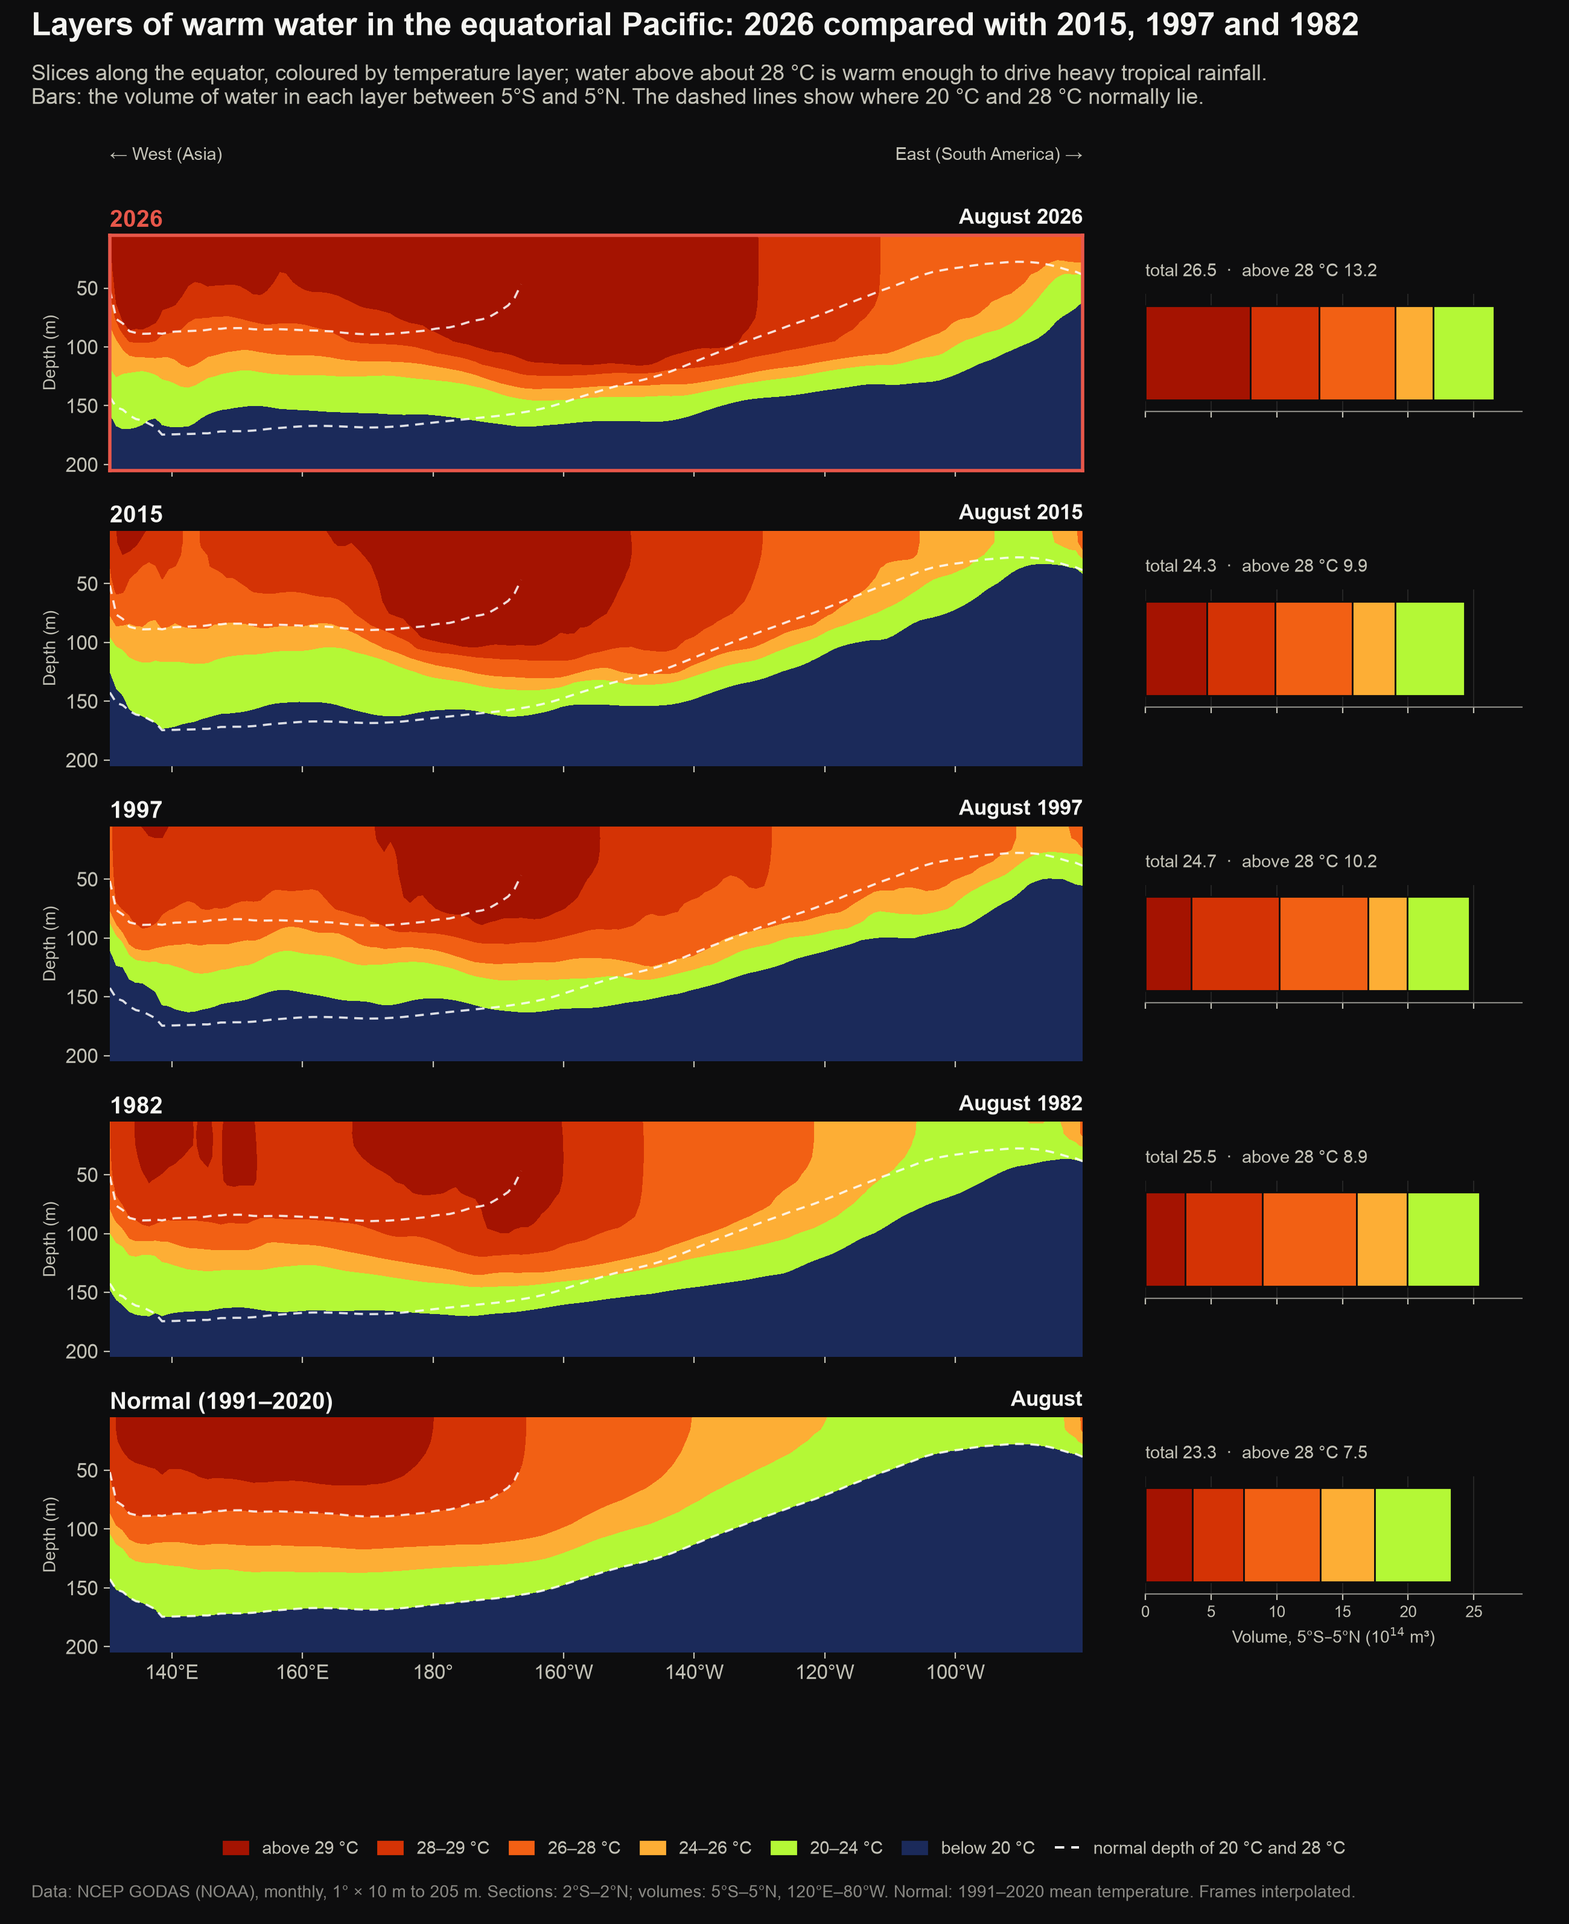
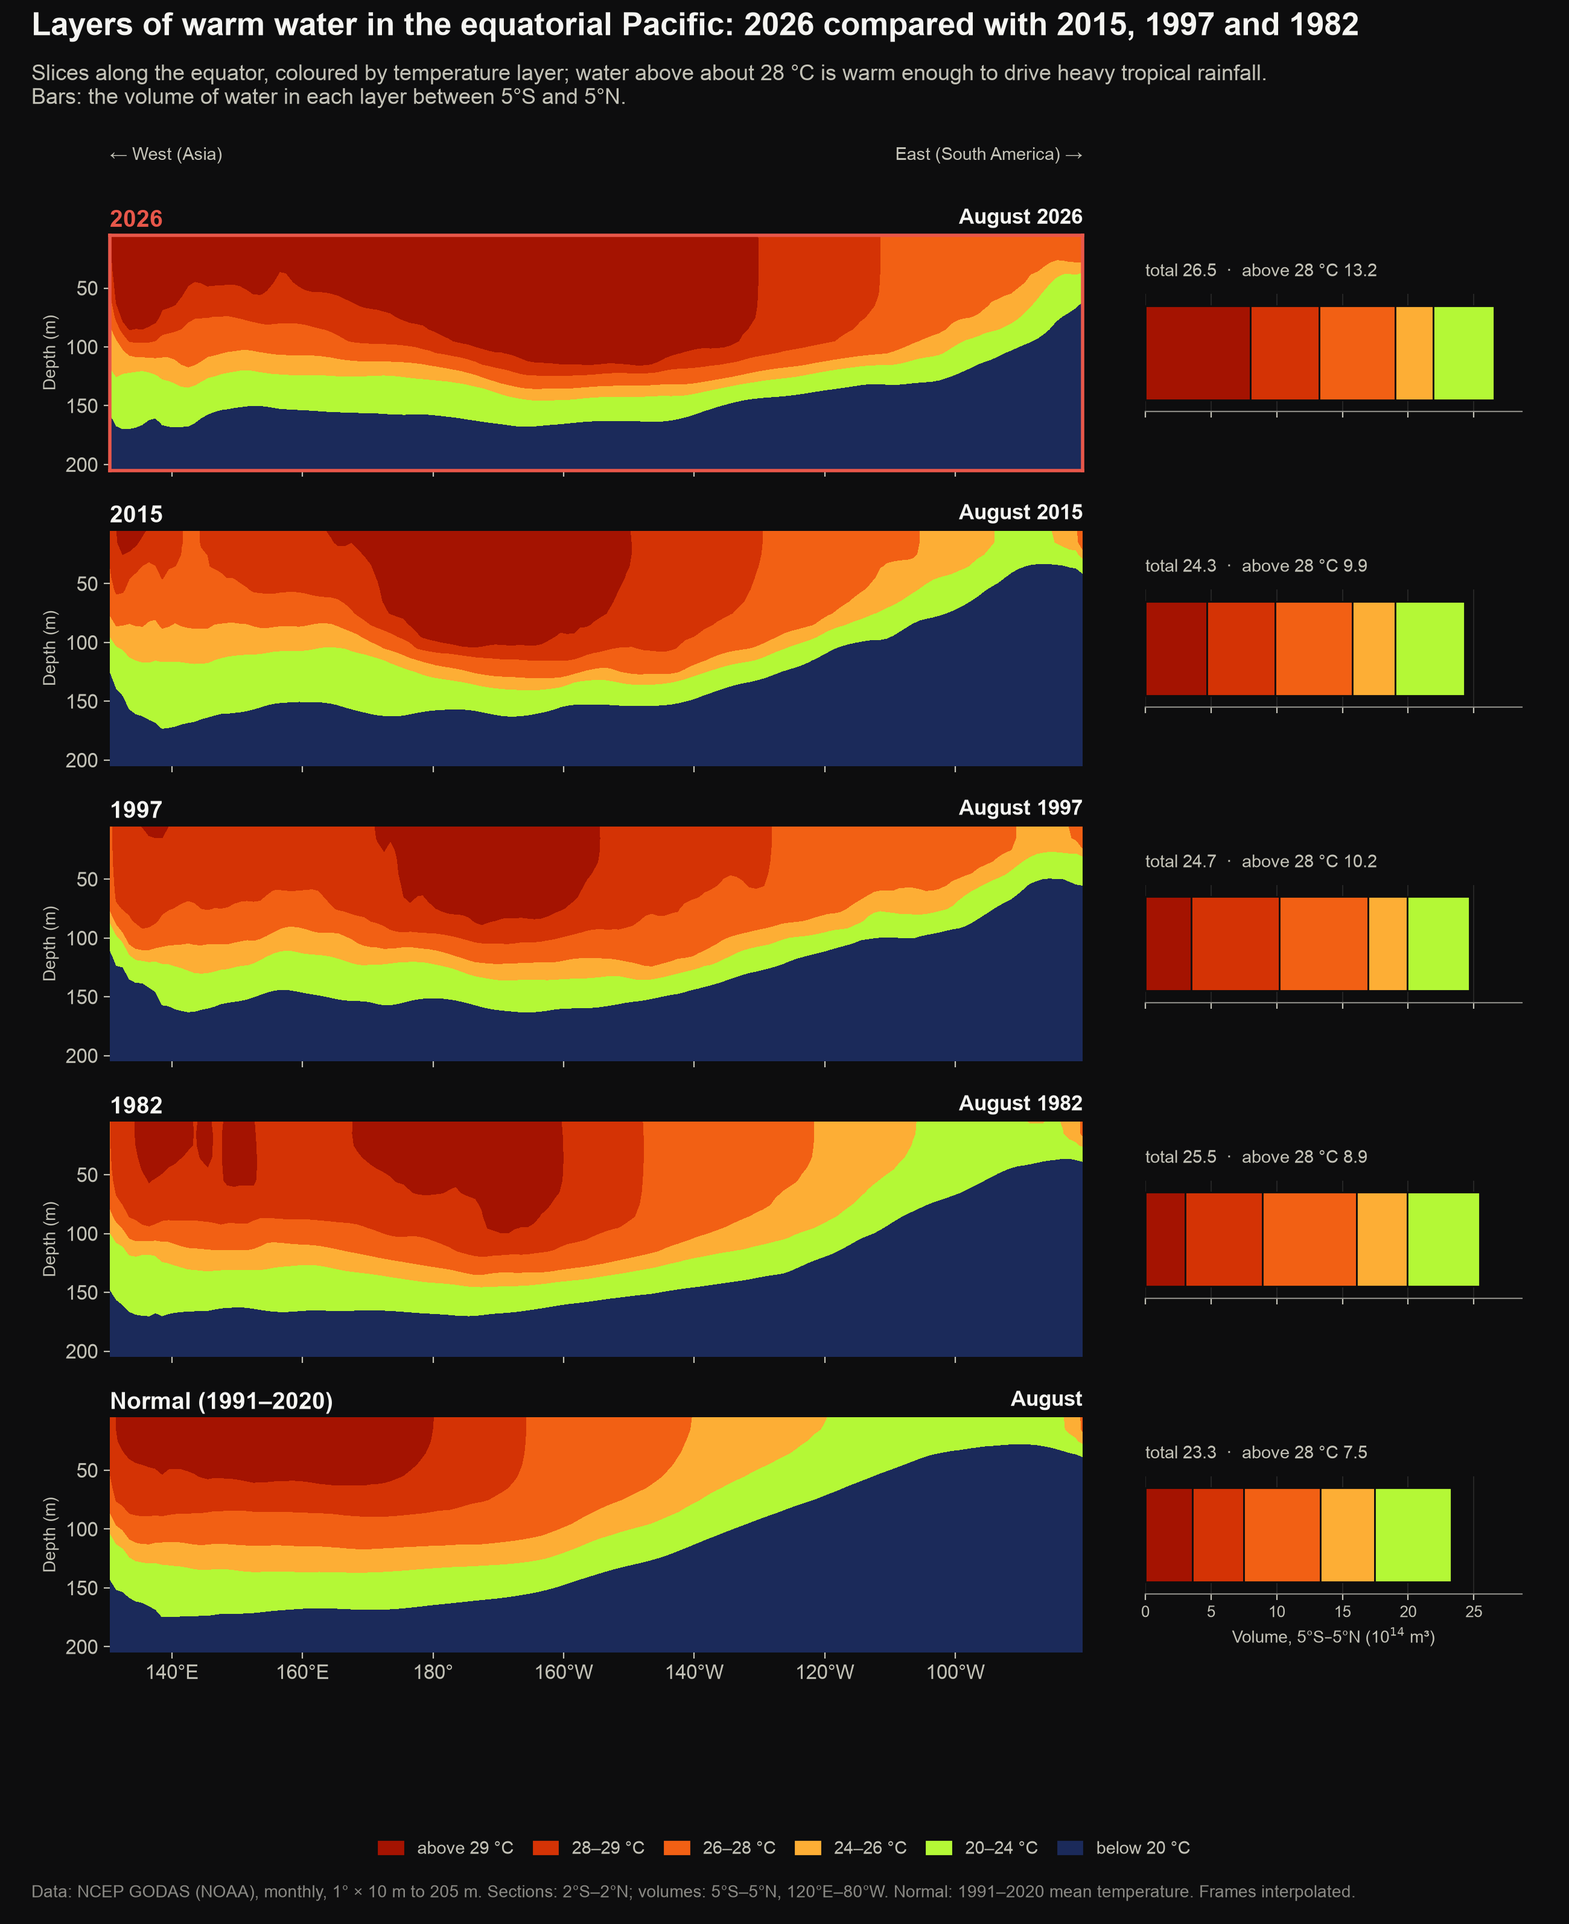
Layers of warm water: remove the dashed normal-isotherm lines

diff --git a/docs/ocean/index.html b/docs/ocean/index.html
@@ -476,7 +476,7 @@
 
 <h2 class="section">Warm water building up</h2><p class="intro">How much warm water is stored in the equatorial Pacific, and how much of it is the hottest water, above 28 °C.</p>
 <figure id="g3"><p class="takeaway">More warm water is stored along the equator in 2026 than at the same stage of 2015, 1997 or 1982.</p><div class="player"><img src="img/03_anim_warm_water.png" data-anim="img/03_anim_warm_water.webp" alt="Animated maps of the depth of the 20 °C isotherm across the tropical Pacific from July 2025 to August 2026 for 2026, 2015, 1997 and 1982 and the 1991–2020 normal. In August, the equatorial warm water volume departed from normal by +3.2 × 10¹⁴ m³ in 2026, +1.0 × 10¹⁴ m³ in 2015, +1.4 × 10¹⁴ m³ in 1997 and +2.2 × 10¹⁴ m³ in 1982." width="2600" height="3687" decoding="async"><button type="button" class="play"><span aria-hidden="true">▶</span> Play animation <span class="size">(10 MB)</span></button></div><figcaption><b>Figure 3. Animation: warm water moving across the Pacific.</b> Animated maps of the depth of the 20 °C isotherm (the thickness of the warm upper layer) from July of the year before onset, for 2026, 2015, 1997, 1982 and the 1991–2020 normal, with the equatorial <span class="term" tabindex="0" data-def="The volume of water warmer than 20 °C near the equator (5°S–5°N, 120°E–80°W). It builds up before an El Niño and is drained by it.">warm water volume<span class="vh"> (The volume of water warmer than 20 °C near the equator (5°S–5°N, 120°E–80°W). It builds up before an El Niño and is drained by it.)</span></span> (5°S–5°N) and its departure from normal. <a href="img/03_anim_warm_water.webp" target="_blank" rel="noopener">Open the animation in a new tab</a> · <a href="img/03_anim_warm_water.png" target="_blank" rel="noopener">still image of the final frame</a>.<details class="how"><summary>How to read this figure</summary><p>Each map shows how far below the surface the warm upper layer reaches (the depth of the 20 °C isotherm). Dark red means warm water extends deep; blue means the warm layer is thin. Watch the band between the dashed lines: during El Niño the red area spreads east along the equator.</p></details></figcaption></figure>
-<figure id="g4"><p class="takeaway">The hottest water has grown the most: the volume warmer than 28 °C is far above normal and above 2015, 1997 and 1982 at the same stage.</p><div class="player"><img src="img/04_anim_warm_layers.png" data-anim="img/04_anim_warm_layers.webp" alt="Animated equatorial Pacific sections coloured by temperature layer from July 2025 to August 2026 for 2026, 2015, 1997, 1982 and Normal (1991–2020), with bars of warm water volume by layer. In August, water above 28 °C between 5°S and 5°N totalled 13.2 × 10¹⁴ m³ in 2026, 9.9 × 10¹⁴ m³ in 2015, 10.2 × 10¹⁴ m³ in 1997, 8.9 × 10¹⁴ m³ in 1982 and 7.5 × 10¹⁴ m³ in Normal (1991–2020); water above 20 °C totalled 26.5, 24.3, 24.7, 25.5 and 23.3 × 10¹⁴ m³ respectively." width="2600" height="3189" decoding="async"><button type="button" class="play"><span aria-hidden="true">▶</span> Play animation <span class="size">(4 MB)</span></button></div><figcaption><b>Figure 4. Animation: layers of warm water.</b> Equatorial sections coloured by temperature layer (20–24, 24–26, 26–28, 28–29 and above 29 °C) for 2026, 2015, 1997, 1982 and the 1991–2020 normal, with the volume of water in each layer between 5°S and 5°N, from July of the year before onset to the latest month. <a href="img/04_anim_warm_layers.webp" target="_blank" rel="noopener">Open the animation in a new tab</a> · <a href="img/04_anim_warm_layers.png" target="_blank" rel="noopener">still image of the final frame</a>.<details class="how"><summary>How to read this figure</summary><p>Each slice runs along the equator from Asia (left) to South America (right) and from 5 m down to 200 m. Colours mark temperature layers, from below 20 °C (dark blue) to above 29 °C (dark red). The dashed lines show where 20 °C and 28 °C normally lie; red reaching below or east of them means more warm water than usual. The bar beside each slice adds up the volume in each layer, warmest on the left.</p></details></figcaption></figure>
+<figure id="g4"><p class="takeaway">The hottest water has grown the most: the volume warmer than 28 °C is far above normal and above 2015, 1997 and 1982 at the same stage.</p><div class="player"><img src="img/04_anim_warm_layers.png" data-anim="img/04_anim_warm_layers.webp" alt="Animated equatorial Pacific sections coloured by temperature layer from July 2025 to August 2026 for 2026, 2015, 1997, 1982 and Normal (1991–2020), with bars of warm water volume by layer. In August, water above 28 °C between 5°S and 5°N totalled 13.2 × 10¹⁴ m³ in 2026, 9.9 × 10¹⁴ m³ in 2015, 10.2 × 10¹⁴ m³ in 1997, 8.9 × 10¹⁴ m³ in 1982 and 7.5 × 10¹⁴ m³ in Normal (1991–2020); water above 20 °C totalled 26.5, 24.3, 24.7, 25.5 and 23.3 × 10¹⁴ m³ respectively." width="2600" height="3189" decoding="async"><button type="button" class="play"><span aria-hidden="true">▶</span> Play animation <span class="size">(3 MB)</span></button></div><figcaption><b>Figure 4. Animation: layers of warm water.</b> Equatorial sections coloured by temperature layer (20–24, 24–26, 26–28, 28–29 and above 29 °C) for 2026, 2015, 1997, 1982 and the 1991–2020 normal, with the volume of water in each layer between 5°S and 5°N, from July of the year before onset to the latest month. <a href="img/04_anim_warm_layers.webp" target="_blank" rel="noopener">Open the animation in a new tab</a> · <a href="img/04_anim_warm_layers.png" target="_blank" rel="noopener">still image of the final frame</a>.<details class="how"><summary>How to read this figure</summary><p>Each slice runs along the equator from Asia (left) to South America (right) and from 5 m down to 200 m. Colours mark temperature layers, from below 20 °C (dark blue) to above 29 °C (dark red); compare each year with the Normal panel at the bottom to see how much deeper and farther east the warm layers reach. The bar beside each slice adds up the volume in each layer, warmest on the left.</p></details></figcaption></figure>
 <h2 class="section">Kelvin waves</h2><p class="intro">Pulses of warm water that cross the Pacific beneath the surface, followed in daily satellite sea level.</p>
 <figure id="g5"><p class="takeaway">A series of Kelvin waves has carried warm water from the western Pacific to South America since late 2025, each one adding to the warm layer in the east.</p><div class="player"><img src="img/05_anim_kelvin.png" data-anim="img/05_anim_kelvin.webp" alt="Animated infographic of Kelvin waves along the equatorial Pacific from July 2025 to 14 October 2026, from daily satellite sea level. 6 Kelvin waves crossed the Pacific: wave 1 left 150°E on 7 December and reached 95°W on 28 January 2026 at 2.8 m/s; wave 2 left 150°E on 24 January and reached 95°W on 14 March 2026 at 3.0 m/s; wave 3 left 150°E on 20 March and reached 95°W on 7 May 2026 at 3.0 m/s; wave 4 left 150°E on 12 April and reached 95°W on 27 May 2026 at 3.2 m/s; wave 5 left 150°E on 13 July and reached 95°W on 29 August 2026 at 3.1 m/s; wave 6 left 150°E on 1 September and reached 95°W on 13 October 2026 at 3.4 m/s. Sea level east of 130°W rose from -1 cm to +46 cm over the period." width="2598" height="2209" decoding="async"><button type="button" class="play"><span aria-hidden="true">▶</span> Play animation <span class="size">(4 MB)</span></button></div><figcaption><b>Figure 5. Animation: Kelvin waves.</b> Every Kelvin wave since July 2025 traced in daily satellite sea level along the equator: each pulse raises sea level by a few centimetres as it crosses the Pacific. <a href="img/05_anim_kelvin.webp" target="_blank" rel="noopener">Open the animation in a new tab</a> · <a href="img/05_anim_kelvin.png" target="_blank" rel="noopener">still image of the final frame</a>.<details class="how"><summary>How to read this figure</summary><p>Top: total sea level along the equator on the day shown, rising in the east as warm water piles up. Bottom: the Kelvin-wave signal day by day, with time running down the page, so each wave is a red streak slanting down to the right. Yellow dashed lines trace each wave once it has crossed the Pacific.</p></details></figcaption></figure>
 <figure id="g6"><p class="takeaway">Sea level along the equator in the eastern Pacific has risen by about 40 cm since mid-2025 as warm water piled up, with Kelvin-wave ridges arriving one after another.</p><div class="player"><img src="img/06_anim_sealevel_3d.png" data-anim="img/06_anim_sealevel_3d.webp" alt="Animated 3D landscape of sea level across the tropical Pacific from July 2025 to 14 October 2026. Ridges travel east along the equator as Kelvin waves, and sea level on the equator east of 130°W rises from -1 cm to +42 cm." width="2598" height="1638" decoding="async"><button type="button" class="play"><span aria-hidden="true">▶</span> Play animation <span class="size">(4 MB)</span></button></div><figcaption><b>Figure 6. Animation: sea level in 3D.</b> Daily satellite sea level across the tropical Pacific drawn as a 3D landscape, July 2025 to the latest day: Kelvin waves travel east along the equator as the eastern Pacific rises. <a href="img/06_anim_sealevel_3d.webp" target="_blank" rel="noopener">Open the animation in a new tab</a> · <a href="img/06_anim_sealevel_3d.png" target="_blank" rel="noopener">still image of the final frame</a>.<details class="how"><summary>How to read this figure</summary><p>The landscape is the tropical Pacific seen from the south, with Asia to the left and South America to the right; its height and colour are the sea level <span class="term" tabindex="0" data-def="The difference from normal (the 1991–2020 average) for the same time of year; +2 °C means 2 °C warmer than usual.">anomaly<span class="vh"> (The difference from normal (the 1991–2020 average) for the same time of year; +2 °C means 2 °C warmer than usual.)</span></span>. Watch the red ridge along the equator: bumps that move from left to right are Kelvin waves, and the ridge grows as warm water accumulates in the east.</p></details></figcaption></figure>

diff --git a/anim_warm_layers.py b/anim_warm_layers.py
@@ -5,7 +5,7 @@ Animation 6 — Layers of warm water in the equatorial Pacific: how much water i
 Left: depth–longitude sections along the equator (2°S–2°N, 5–205 m) from NCEP GODAS, coloured
 by temperature layer: 20–24, 24–26, 26–28, 28–29 and above 29 °C. Water above about 28 °C is
 warm enough to sustain deep atmospheric convection, so the upper layers show the hottest water
-pooling. Dashed white lines mark where the 20 °C and 28 °C isotherms lie in a normal year.
+pooling.
 Right: the volume of water in each layer over 5°S–5°N, 120°E–80°W (the warm water volume box
 used by NOAA PMEL), in 10¹⁴ m³; the full bar is the warm water volume above 20 °C.
 
@@ -22,7 +22,6 @@ import pandas as pd
 import matplotlib.pyplot as plt
 from matplotlib.colors import BoundaryNorm, ListedColormap
 from matplotlib.patches import Patch
-from matplotlib.lines import Line2D
 from matplotlib.ticker import FuncFormatter
 
 from anim_warm_water import R_EARTH, WWV_BOX, d20, load_temps, monthly_normal
@@ -81,10 +80,6 @@ def main():
     west = lon >= LON_MIN                                                      # east of the Maritime Continent
     sections = [np.nanmean(t[:, :, eq, :], axis=2)[:, :, west] for _, t in rows]   # (time, depth, lon)
     vols = [volumes(t, lat, lon, depths) for _, t in rows]                     # (time, layer)
-    normal_sec = sections[-1]
-    # where the isotherm does not occur in a normal year (surface cooler than it), leave the line out
-    normal_iso = {th: np.where((z := d20(normal_sec[:, :, None, :], depths, th)[:, 0, :]) > depths.min(), z, np.nan)
-                  for th in (20, 28)}                                          # (time, lon)
     lon = lon[west]
 
     colors = layer_colors()
@@ -142,21 +137,18 @@ def main():
     sec_axes[0].text(1.0, 1.32, "East (South America) →", transform=sec_axes[0].transAxes, fontsize=10.5,
                      color=COLORS["text_2"], ha="right")
     handles = ([Patch(color=c, label=nm) for c, nm in zip(colors[1:], LAYER_NAMES)][::-1]
-               + [Patch(color=colors[0], label="below 20 °C"),
-                  Line2D([], [], color="white", lw=1.4, ls=(0, (4, 3)), label="normal depth of 20 °C and 28 °C")])
-    fig.legend(handles=handles, loc="lower center", bbox_to_anchor=(0.5, 0.42 / H), ncol=7, fontsize=10.5,
+               + [Patch(color=colors[0], label="below 20 °C")])
+    fig.legend(handles=handles, loc="lower center", bbox_to_anchor=(0.5, 0.42 / H), ncol=6, fontsize=10.5,
                labelcolor=COLORS["text_2"], handlelength=1.4, columnspacing=1.1, frameon=False)
     add_title(fig, f"Layers of warm water in the equatorial Pacific: {NOW} compared with "
                    f"{join_and(str(y) for y in args.compare)}",
               "Slices along the equator, coloured by temperature layer; water above about 28 °C is warm enough to "
-              "drive heavy tropical rainfall.\nBars: the volume of water in each layer between 5°S and 5°N. The "
-              "dashed lines show where 20 °C and 28 °C normally lie.")
+              "drive heavy tropical rainfall.\nBars: the volume of water in each layer between 5°S and 5°N.")
     add_source(fig, "Data: NCEP GODAS (NOAA), monthly, 1° × 10 m to 205 m. Sections: 2°S–2°N; volumes: 5°S–5°N, "
                "120°E–80°W. Normal: 1991–2020 mean temperature. Frames interpolated.")
 
     seqs = [interpolate_months(s, args.steps) for s in sections]
     vseqs = [interpolate_months(v, args.steps) for v in vols]
-    iso_seqs = {th: interpolate_months(a, args.steps)[0] for th, a in normal_iso.items()}
     drawn = [[] for _ in rows]
     frames = AnimationFrames(fig, dpi=110)
     for i, pos in enumerate(seqs[0][1]):
@@ -168,9 +160,6 @@ def main():
             field = seqs[r][0][i]
             cf = ax.contourf(lon, depths, np.where(np.isfinite(field), field, 0), levels=bounds, cmap=cmap, norm=norm)
             drawn[r] = [cf]
-            for th in (20, 28):
-                ln, = ax.plot(lon, iso_seqs[th][i], color="white", lw=1.3, ls=(0, (4, 3)), alpha=0.85)
-                drawn[r].append(ln)
             v = vseqs[r][0][i]
             left = 0.0
             for rect, w in zip(bars[r], v[::-1]):                      # warmest layer first, from the left

diff --git a/site_config.py b/site_config.py
@@ -273,9 +273,9 @@ FIGURE_NOTES = {
         takeaway="The hottest water has grown the most: the volume warmer than 28 °C is far above normal and above "
                  "2015, 1997 and 1982 at the same stage.",
         how="Each slice runs along the equator from Asia (left) to South America (right) and from 5 m down to 200 m. "
-            "Colours mark temperature layers, from below 20 °C (dark blue) to above 29 °C (dark red). The dashed "
-            "lines show where 20 °C and 28 °C normally lie; red reaching below or east of them means more warm water "
-            "than usual. The bar beside each slice adds up the volume in each layer, warmest on the left."),
+            "Colours mark temperature layers, from below 20 °C (dark blue) to above 29 °C (dark red); compare each "
+            "year with the Normal panel at the bottom to see how much deeper and farther east the warm layers reach. "
+            "The bar beside each slice adds up the volume in each layer, warmest on the left."),
     "anim_kelvin.py": dict(
         takeaway="A series of Kelvin waves has carried warm water from the western Pacific to South America since "
                  "late 2025, each one adding to the warm layer in the east.",
